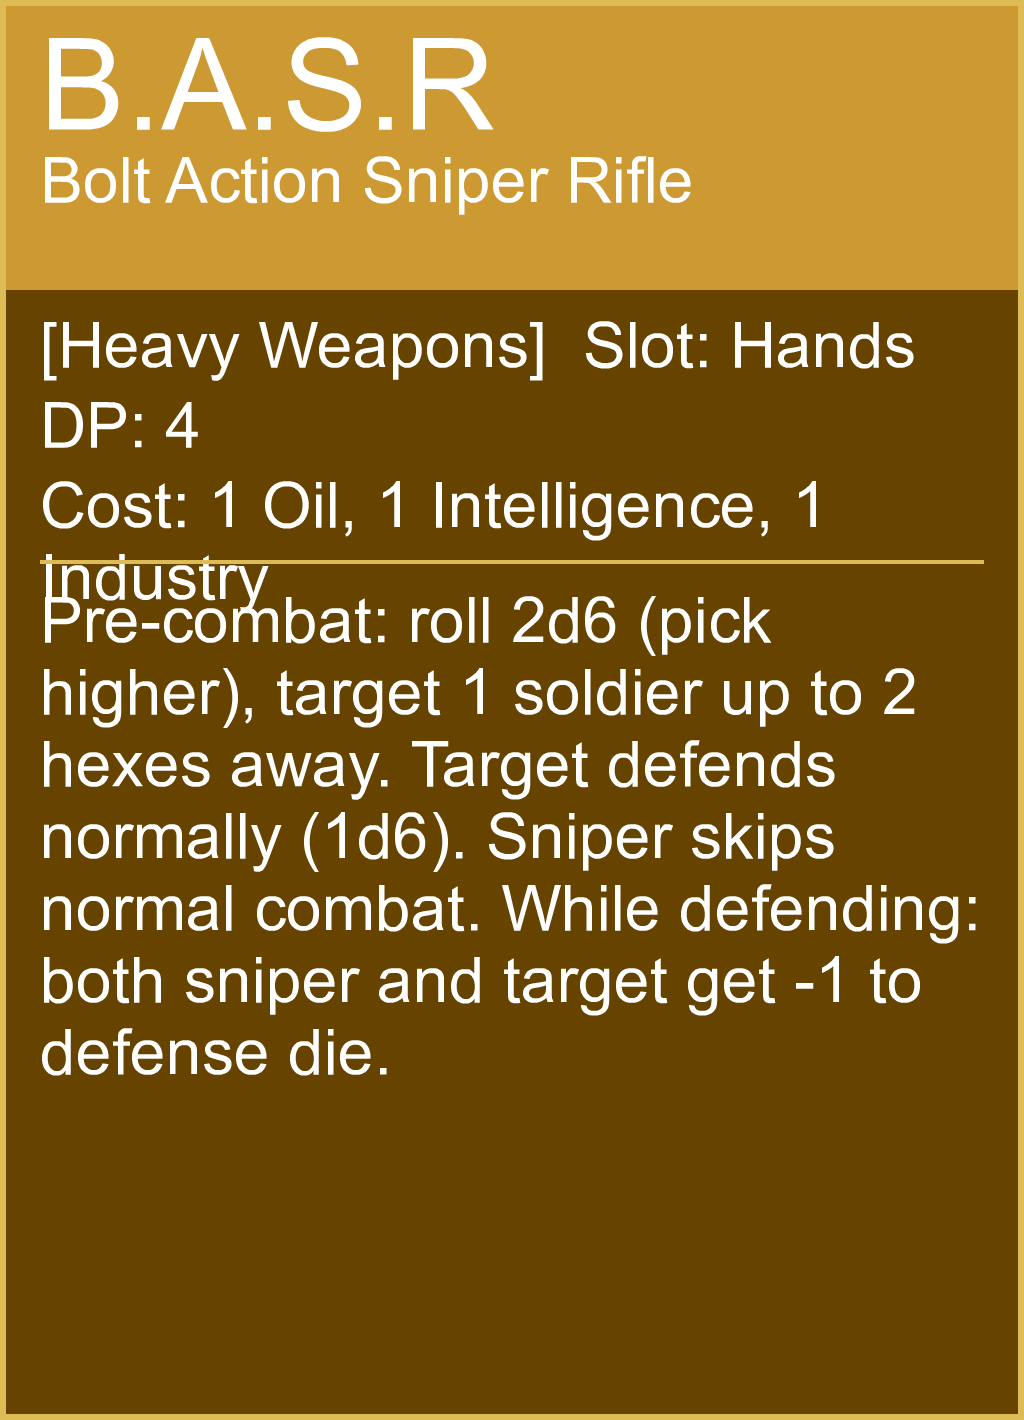
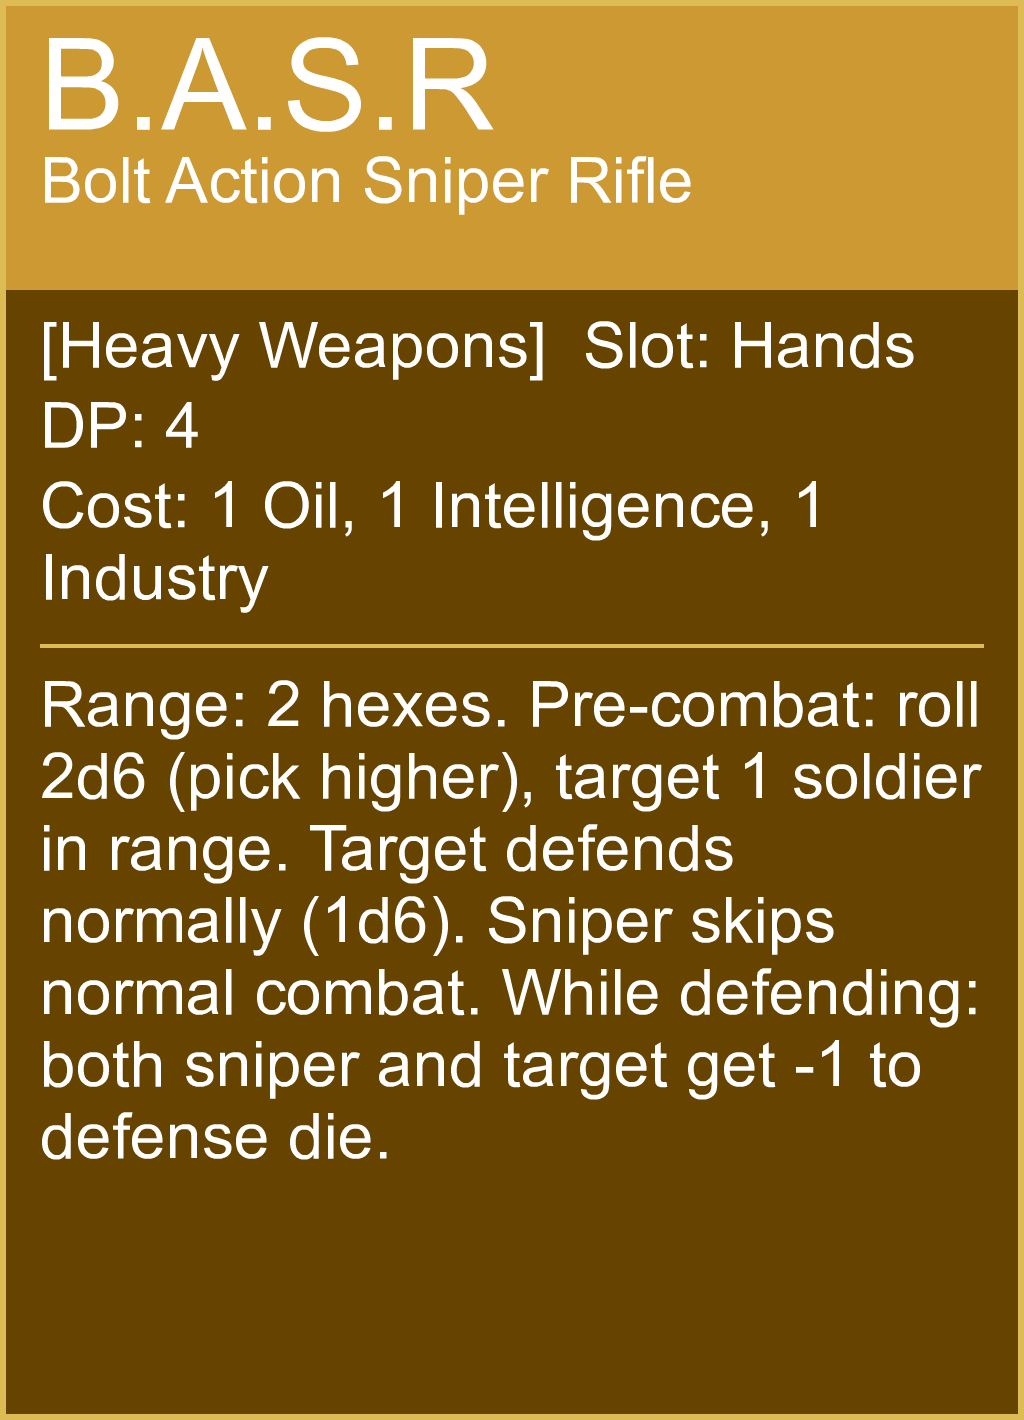
cards: specify range on standard weapons

Changed region(s): [[0.0312, 0.4028, 0.9688, 0.8366]]

diff --git a/tts/generate-save.js b/tts/generate-save.js
@@ -1696,16 +1696,16 @@ const BACS_BY_SLOT = {
     Hands: [
         { abbr: "H.C.A.R",      category: "Weapons",
           name: "Heavy Caliber Assault Rifle",
-          text: "Add +1 to this soldier's attack die." },
+          text: "Range: 2 hexes. Add +1 to this soldier's attack die." },
         { abbr: "B.A.S.R",      category: "Heavy Weapons",
           name: "Bolt Action Sniper Rifle",
-          text: "Pre-combat: roll 2d6 (pick higher), target 1 soldier up to 2 hexes away. Target defends normally (1d6). Sniper skips normal combat. While defending: both sniper and target get -1 to defense die." },
+          text: "Range: 2 hexes. Pre-combat: roll 2d6 (pick higher), target 1 soldier in range. Target defends normally (1d6). Sniper skips normal combat. While defending: both sniper and target get -1 to defense die." },
         { abbr: "R.S.G",        category: "Weapons",
           name: "Repeating Shotgun",
-          text: "If target squad is up to 1 hex away, add +2 to attack die. Otherwise add -1." },
+          text: "Range: 2 hexes. If target squad is up to 1 hex away, add +2 to attack die. Otherwise add -1." },
         { abbr: "P.C.S.M.G",    category: "Weapons",
           name: "Projectile Correcting Sub Machine Gun",
-          text: "If target squad is up to 1 hex away, roll 3d6 for this soldier's attack instead of 1d6 and pick the highest result." },
+          text: "Range: 2 hexes. If target squad is up to 1 hex away, roll 3d6 for this soldier's attack instead of 1d6 and pick the highest result." },
     ],
     Legs: [
         { abbr: "S.A.P Legs",   category: "Armor",

diff --git a/tts/generate-cards.js b/tts/generate-cards.js
@@ -7,7 +7,7 @@
  * Output: tts/cards/bac_*.png, tts/cards/conspire_*.png
  */
 
-const { Jimp, loadFont } = require("jimp");
+const { Jimp, loadFont, measureTextHeight } = require("jimp");
 const path = require("path");
 const fs = require("fs");
 
@@ -98,8 +98,9 @@ async function main() {
 
         // Cost
         const costStr = typeof bac.cost === "string" ? bac.cost : Object.entries(bac.cost).map(([k, v]) => `${v} ${k}`).join(", ");
-        img.print({ font: fontBody, x: pad, y, text: `Cost: ${costStr}`, maxWidth: textW });
-        y += 90;
+        const costText = `Cost: ${costStr}`;
+        img.print({ font: fontBody, x: pad, y, text: costText, maxWidth: textW });
+        y += Math.max(90, measureTextHeight(fontBody, costText, textW) + 30);
 
         // Divider
         fillRect(img, pad, y, textW, 4, { r: 0xDD, g: 0xBB, b: 0x55 });

diff --git a/design/WARHAMS-Rulebook-Print.md b/design/WARHAMS-Rulebook-Print.md
@@ -920,17 +920,17 @@ Modules with active abilities fall into two timing categories:
 | C.A.P Legs | Custom Armor Plating Legs | Legs | 1 S.A.P Legs + 1 Local Favor, 1 Electricity, 1 Oil | 4 | +2 defense die |
 | J.J | Jump Jets | Legs | 1 Industry, 1 Intelligence | 2 | Move 2 hexes instead of 1. May override squad coherency (fights alone while disconnected, no Squad-level BAC effects) |
 | S.H.A.D | Sensory Helmet, Advisory Drone | Head | 2 Intelligence, 1 Electricity | 4 | Attacker must reveal Conspire cards before combat |
-| H.C.A.R | Heavy Caliber Assault Rifle | Hands | 1 Industry, 1 Electricity | 2 | +1 attack die |
+| H.C.A.R | Heavy Caliber Assault Rifle | Hands | 1 Industry, 1 Electricity | 2 | **Range 2.** +1 attack die |
 | P.A.E.H | Personal Accuracy Enhancement Helmet | Head | 1 Local Favor, 1 Electricity, 1 Intelligence | 4 | +1 attack die if soldier also carries H.C.A.R |
-| B.A.S.R | Bolt Action Sniper Rifle | Hands | 1 Electricity, 1 Intelligence, 1 Industry | 4 | Pre-combat: roll 2d6 (pick higher), target 1 soldier up to 2 hexes. Sniper skips normal combat. −1 defense |
+| B.A.S.R | Bolt Action Sniper Rifle | Hands | 1 Electricity, 1 Intelligence, 1 Industry | 4 | **Range 2.** Pre-combat: roll 2d6 (pick higher), target 1 soldier in range. Sniper skips normal combat. −1 defense |
 | S.L.I.M.E | Squad Light Interoperable Mortar Encampment | Backpack | 1 Industry, 2 Oil, 2 Local Favor | 5 | Requires 2 soldiers. Roll 4 dice, target squad up to 3 hexes. Crew skips combat. Defenders −1 defense. While defending: −1 to defense die |
 | B.E.A.R | Battlefield Extraction Airlift Rover | Chest | 1 each of all 5 resources | 3 | Pick 1 extra resource during Phase 4 |
 | P.L.A.S.T.E.R | Personal Lasting Aid Surgical Treatment Enhancement Robot | Chest | 1 Electricity, 1 Local Favor | 2 | Remove up to 2 damage pegs. **Tap**. Recharge at City/Spaceport for 1 Electricity |
 | N.I.N.J.A | Nir Ion Nullifier Jammer Aid | Legs | 1 Intelligence, 1 Electricity | 2 | +3 to one defense die. **Tap**. Recharge for 2 Electricity |
 | D.U.D.S | Deployable Unital Defense System | Backpack | 1 Local Favor, 1 Oil, 1 Electricity | 4 | Place bunker token: +1 all defense dice on this hex. **Flip** (one-use) |
 | L.P.M | Laser Pointer Marker | Backpack | 1 Electricity, 1 Local Favor, 1 Intelligence | 3 | B.A.S.R/S.L.I.M.E can target enemies adjacent to L.P.M carrier. Max 4 hex range |
-| R.S.G | Repeating Shotgun | Hands | 1 Electricity, 1 Local Favor | 2 | Within 1 hex: +2 attack. Beyond 1 hex: −1 attack |
-| P.C.S.M.G | Projectile Correcting Sub Machine Gun | Hands | 1 Electricity, 1 Industry, 1 Intelligence | 3 | Within 1 hex: roll 2d6 for attack instead of 1d6, pick the higher result |
+| R.S.G | Repeating Shotgun | Hands | 1 Electricity, 1 Local Favor | 2 | **Range 2.** Within 1 hex: +2 attack. Beyond 1 hex: −1 attack |
+| P.C.S.M.G | Projectile Correcting Sub Machine Gun | Hands | 1 Electricity, 1 Industry, 1 Intelligence | 3 | **Range 2.** Within 1 hex: roll 2d6 for attack instead of 1d6, pick the higher result |
 | T.I.L.T.S | Tactical Ion Team Link Shield | Backpack | 1 Electricity, 1 Industry, 2 Intelligence | 5 | Pay once for X soldiers. Swap attacker's dice between T.I.L.T.S soldiers. No other backpack allowed |
 
 ---

diff --git a/design/WARHAMS-Rulebook.md b/design/WARHAMS-Rulebook.md
@@ -923,10 +923,10 @@ Modules with active abilities fall into two timing categories:
 | | C.A.P Chest | Custom Armor Plating Chest | Chest | 1 S.A.P Chest + 1 LF, 1 Ind, 1 Oil | 4 | This soldier gets +2 to its defense die |
 | | C.A.P Head | Custom Armor Plating Helmet | Head | 1 S.A.P Head + 1 LF, 1 Int, 1 Oil | 4 | This soldier gets +2 to its defense die |
 | | C.A.P Legs | Custom Armor Plating Legs | Legs | 1 S.A.P Legs + 1 LF, 1 Elec, 1 Oil | 4 | This soldier gets +2 to its defense die |
-| **🔫 Weapons** | H.C.A.R | Heavy Caliber Assault Rifle | Hands | 1 Ind, 1 Oil | 2 | +1 attack die |
-| | R.S.G | Repeating Shotgun | Hands | 1 Oil, 1 LF | 2 | Within 1 hex: +2 attack. Beyond 1 hex: −1 attack |
-| | P.C.S.M.G | Projectile Correcting Sub Machine Gun | Hands | 1 Elec, 1 Ind, 1 Int | 3 | Within 1 hex: roll 3d6 pick highest |
-| **💣 Heavy** | B.A.S.R | Bolt Action Sniper Rifle | Hands | 1 Oil, 1 Int, 1 Ind | 4 | Pre-combat: 2d6 pick higher, target 1 soldier up to 2 hexes. Sniper skips combat. Both get −1 defense |
+| **🔫 Weapons** | H.C.A.R | Heavy Caliber Assault Rifle | Hands | 1 Ind, 1 Oil | 2 | **Range 2.** +1 attack die |
+| | R.S.G | Repeating Shotgun | Hands | 1 Oil, 1 LF | 2 | **Range 2.** Within 1 hex: +2 attack. Beyond 1 hex: −1 attack |
+| | P.C.S.M.G | Projectile Correcting Sub Machine Gun | Hands | 1 Elec, 1 Ind, 1 Int | 3 | **Range 2.** Within 1 hex: roll 3d6 pick highest |
+| **💣 Heavy** | B.A.S.R | Bolt Action Sniper Rifle | Hands | 1 Oil, 1 Int, 1 Ind | 4 | **Range 2.** Pre-combat: 2d6 pick higher, target 1 soldier in range. Sniper skips combat. Both get −1 defense |
 | | S.L.I.M.E | Squad Light Interoperable Mortar Encampment | Backpack | 1 Ind, 2 Oil, 2 LF | 5 | 2-soldier crew. 4d6 normal matchups, target squad up to 3 hexes. Crew skips combat. −1 defense. Civilian Damage Rule |
 | **🔧 Support** | P.L.A.S.T.E.R | Personal Lasting Aid Surgical Treatment Enhancement Robot | Chest | 1 Elec, 1 LF | 2 | Heal up to 2 damage on any soldier same hex. **Tap**. Recharge: 1 Elec |
 | | B.E.A.R | Battlefield Extraction Airlift Rover | Chest | 1 Oil, 1 Ind, 1 Elec | 3 | +1 extra resource from same hex during Phase 4 |
